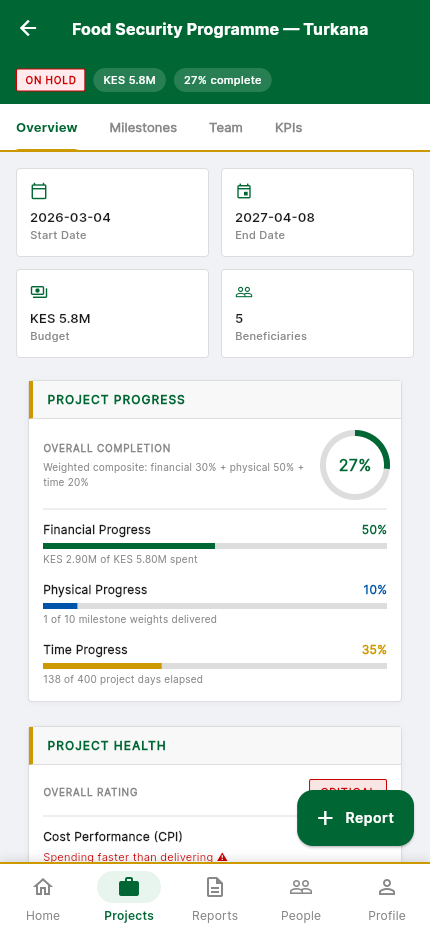
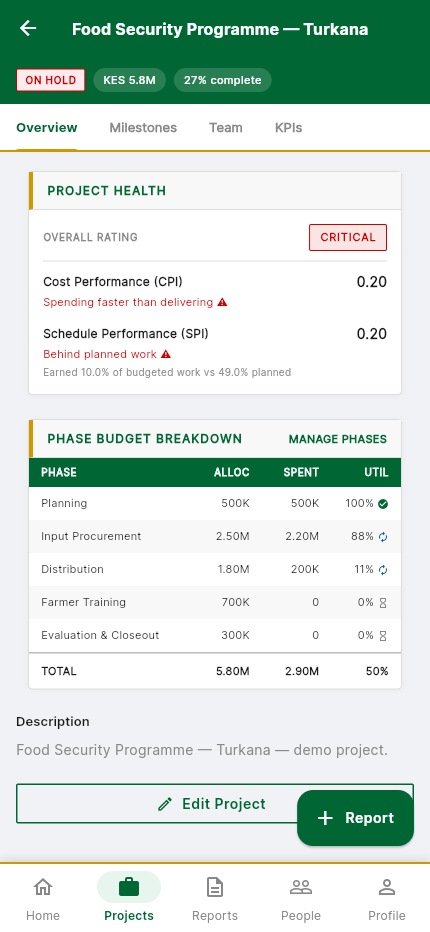
docs: retake project detail screenshot scrolled to the health card (SPI earned-vs-planned line)
Claude-Session: https://claude.ai/code/session_01Bx6DSYntrQAXkWzdDAu9RR

diff --git a/HANDOVER.md b/HANDOVER.md
@@ -63,9 +63,16 @@ front-loaded plan: 49% planned vs 34% calendar). Zero console/API errors.
 **Restart the runserver process after backend edits** — it will not reload
 itself.
 
-> `docs/screenshots/app-project-detail.png` was not retaken: it captures the
-> top of the detail screen and cuts off above the SPI rows, so the new line
-> is not in frame.
+`docs/screenshots/app-project-detail.png` **retaken** scrolled to the health
+card (Food Security: CRITICAL, CPI 0.20, SPI 0.20, "Earned 10.0% of budgeted
+work vs 49.0% planned") plus the phase budget table. Repeatable via
+`detailshot.js` in the session scratchpad — manager login, Projects, row 1,
+`mouse.wheel({deltaY: 555})`; 620 clips the card header, so re-tune the
+scroll by eye if the layout above it changes.
+
+> Trade-off: the previous frame showed the top of the detail screen
+> (date/budget tiles + `ProjectProgressCard` ring and dimension bars), which
+> is now out of frame. Add a second file if the report needs both.
 
 ---
 